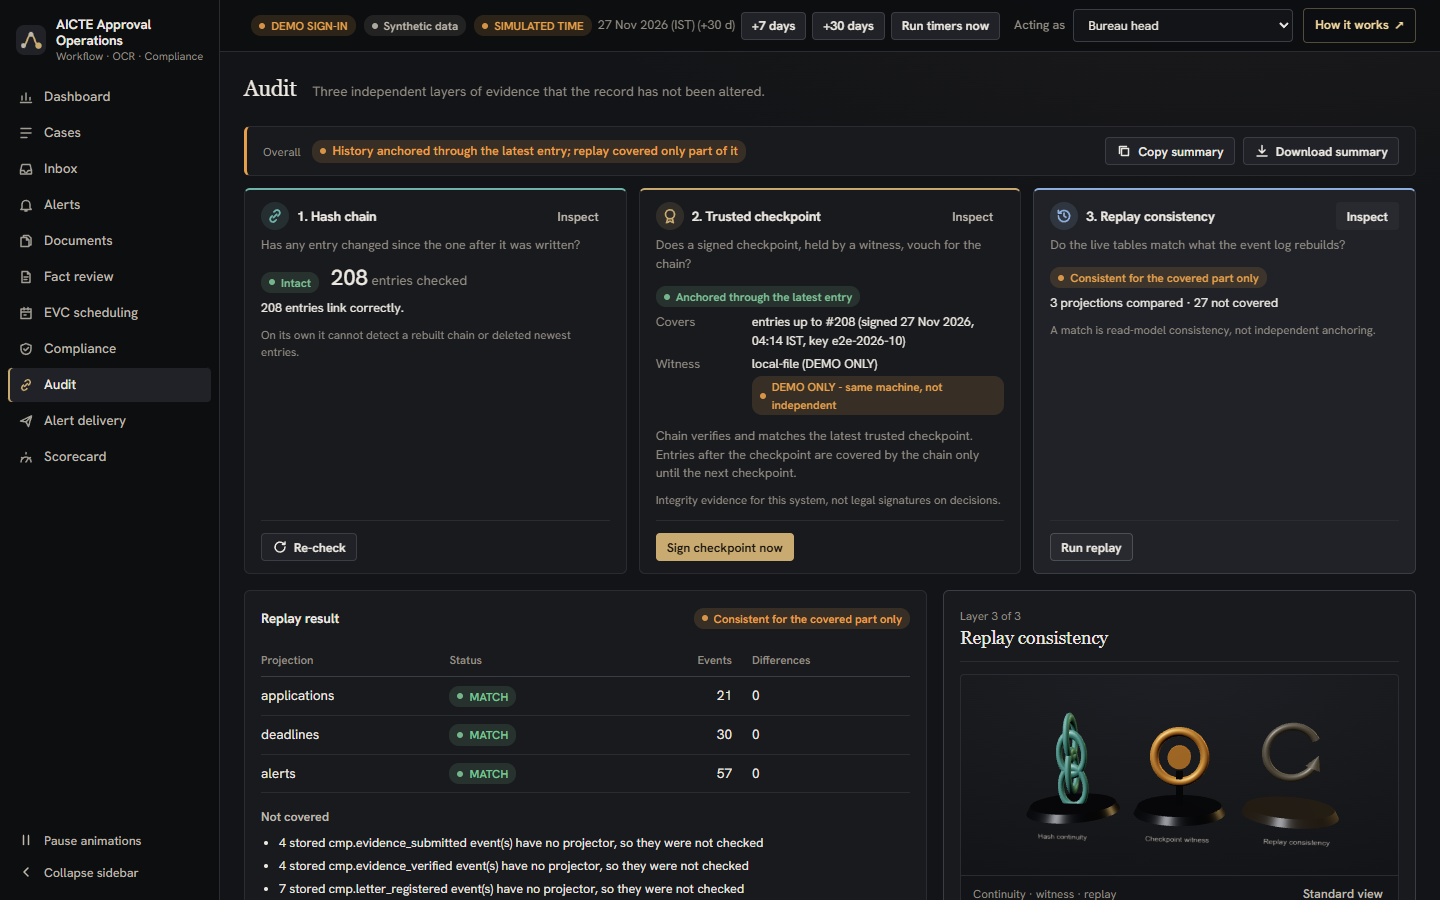
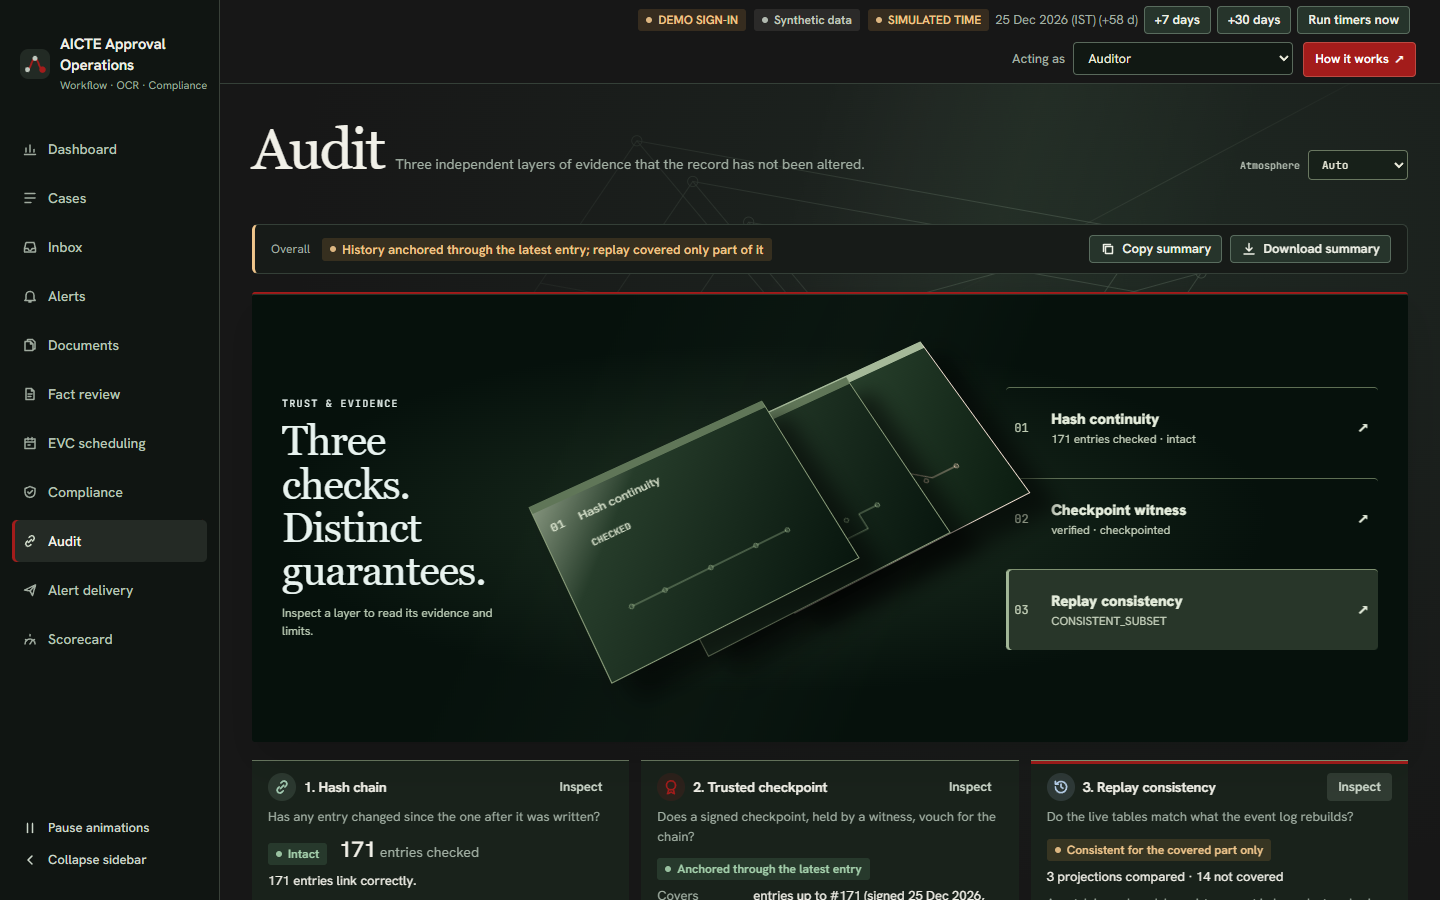
docs: refresh screenshots and design notes for the new workspace look
Replaces the README screenshots with the current screens (same synthetic
data) and adds the dashboard and the showcase. DESIGN.md now lists the
charcoal, forest and crimson palette with the values in use and describes
the atmosphere layer and the screen instruments; MOTION.md covers the
Atmosphere setting next to the reduced-motion rules.

diff --git a/frontend/DESIGN.md b/frontend/DESIGN.md
@@ -10,25 +10,43 @@ cover a form or a table.
 
 ## Colour roles
 
-Colour encodes hierarchy and meaning. Tokens live in `src/styles.css` (`:root`).
+Colour encodes hierarchy and meaning. The palette is built from three anchors: charcoal `#171717`, forest
+`#06110C` and crimson `#A31C1B`. Token names live in `src/styles.css` (`:root`); the values in use are set by the
+product layer in `src/product/` (`product.css`, then `luxury.css`, `atelier.css` and `atmosphere.css`, loaded in that
+order from `main.jsx`). The token names are older than the palette, so `--brass` now holds crimson and `--teal`
+holds sage.
 
-| Role | Tokens | Used for |
-|---|---|---|
-| Ink / graphite | `--ink-0` … `--ink-4`, `--line`, `--line-strong` | Chrome (sidebar, top bar), page, panels, hover, selected rows, hairlines |
-| Ivory / stone text | `--text`, `--text-2`, `--text-3` | Primary, secondary and supporting text (`--text-3` keeps ≥ 4.5:1 on panels) |
-| Reading paper | `--paper`, `--paper-ink`, `--paper-muted` | The document reading surface only |
-| Brass (material) | `--brass`, `--brass-strong`, `--brass-soft` | Selection, focus ring, primary buttons, the witness layer |
-| Amber (attention) | `--amber`, `--amber-soft` | Current stage, next deadline, "needs you", open obligations, sample data |
-| Teal (technical relation) | `--teal`, `--teal-soft` | Hash chain continuity, recorded events, evidence links |
-| Info blue | `--info` | In-process cases, unverified evidence, the replay layer |
-| Status | `--ok`, `--warn`, `--bad` (+ `-soft`) | Recorded outcomes, always with a word |
+| Role | Tokens | Value | Used for |
+|---|---|---|---|
+| Forest / charcoal ink | `--ink-0` … `--ink-4`, `--line`, `--line-strong` | `#06110C` → `#303B32` | Chrome (sidebar, top bar), page, panels, hover, selected rows, hairlines |
+| Ivory text | `--text`, `--text-2`, `--text-3` | `#F1F0E8`, `#C0C9BF`, `#A1AFA3` | Primary, secondary and supporting text (`--text-3` keeps ≥ 4.5:1 on panels) |
+| Reading paper | `--paper`, `--paper-ink` | `#E9E8DF`, `#232A24` | The document reading surface only |
+| Crimson (selection) | `--brass`, `--brass-strong`, `--brass-soft` | `#A31C1B`, `#D44E46` | Selection, the active navigation item, primary buttons, the current stage marker |
+| Amber (attention) | `--amber`, `--warn` | `#EFC58B` | Next deadline, "needs you", open obligations, demo-assumption notices |
+| Sage (technical relation) | `--teal` | `#A3CBB2` | Hash chain continuity, recorded events, evidence links |
+| Info blue | `--info` | `#B3CBE4` | In-process cases, unverified evidence, the replay layer |
+| Status | `--ok`, `--warn`, `--bad` | `#A5D1AD`, `#EFC58B`, `#FFAAA0` | Recorded outcomes, always with a word |
 
 Rules: a status is never shown by colour alone (badges carry a dot and a word); green appears only for a recorded
-positive outcome; amber is not used for decoration; brass marks what the user selected, never a result.
+positive outcome; amber is not used for decoration; crimson marks what the user selected or should press, never a
+result.
+
+## Atmosphere
+
+Each screen sits on a quiet forest field with one soft light and a faint line drawing taken from the screen's
+subject (`src/product/Atmosphere.jsx`, `atmosphere.css`). The layer is `aria-hidden`, has `pointer-events: none`
+and never covers a control. The Atmosphere select beside the page title offers Auto, Full, Reduced and Static; the
+choice is kept in `localStorage` (`awoc.atmosphere`). Under `prefers-reduced-motion` every mode is still.
+
+A few screens add an illustrative instrument above their working surface: the operations pulse on the dashboard,
+the route sculpture on a case, the trust trace on Audit and the review protocol on Fact review
+(`src/product/Instruments.jsx`, `DossierSculpture.jsx`). They read the same API data as the screen, never run an
+action, and never show a stage as done unless the server says so.
 
 ## Type
 
-- Georgia — page titles (22px), the open record's title in an inspector, the case title. Nowhere else.
+- Georgia — page titles (set large, beside the one-sentence description), section headlines in the instruments,
+  the open record's title in an inspector, the case title. Nowhere else.
 - Hanken Grotesk (bundled) — interface text: 13.5px body, 12.5px secondary, 11.5px labels. Labels are sentence
   case; there are no tracked uppercase eyebrows.
 - JetBrains Mono (bundled) — internal references, hashes, file names, sequence numbers, times on the EVC grid.
@@ -38,7 +56,7 @@ positive outcome; amber is not used for decoration; brass marks what the user se
 ## Space, shape, states
 
 Spacing 4/8/12/16/24/32/48 (`--s1`…`--s7`); panel radius 6px, controls 4px; sidebar 220px (60px rail); top bar
-52px. Focus is a 2px brass ring offset from the surface. Buttons: primary (brass), secondary (raised graphite),
+52px. Focus is a 2px light sage ring offset from the surface. Buttons: primary (crimson), secondary (raised forest),
 ghost. Touch targets are at least 36px on phones (44px for navigation).
 
 Loading keeps the shape of what is coming (skeleton bars with a fixed minimum height, so content does not jump).

diff --git a/README.md b/README.md
@@ -33,14 +33,18 @@ written to a hash-chained, signed and replayable audit ledger.
 
 | | |
 |---|---|
+| ![Bureau head dashboard with the operations pulse and the alert queue](docs/screenshots/dashboard.png) | ![Public showcase opening on the application dossier](docs/screenshots/showcase.png) |
+| Dashboard: stage counts rebuilt from the audit event log, a case route to inspect, alerts that need the role | Showcase at `#showcase`: a guided walk-through of the product that ends in the workspace |
 | ![Scrutiny committee recording a deficiency on a case](docs/screenshots/scrutiny-deficiency.png) | ![Regional officer planning expert visits with the CP-SAT optimiser](docs/screenshots/evc-scheduling.png) |
-| Case under scrutiny: deficiency round, committee workspace, demo-assumption labels | EVC scheduling: visit requests, CP-SAT or earliest-deadline-first planning, simulated panel selection |
+| Case under scrutiny: the prescribed route, deficiency round, committee workspace, demo-assumption labels | EVC scheduling: visit requests, CP-SAT or earliest-deadline-first planning, simulated panel selection |
 | ![Fact review with blind entry before the OCR reading is revealed](docs/screenshots/fact-review-blind-entry.png) | ![Deadline alerts with escalation levels and acknowledgement](docs/screenshots/deadline-alerts.png) |
 | Fact review: the officer types the value first; the OCR reading is revealed only after that | Alerts: escalation ladder per deadline, acknowledgement by the addressed role |
 | ![Audit view: hash chain, signed checkpoint and replay](docs/screenshots/audit.png) | ![Scorecard listing how each check was measured](docs/screenshots/scorecard.png) |
 | Audit: hash chain, signed checkpoint held by a witness, replay of read models | Scorecard: each check says how it was measured and what it found |
 
-All screenshots come from the end-to-end run described under [Tests](#tests) and show synthetic data.
+All screenshots come from the end-to-end run described under [Tests](#tests) and show synthetic data. The
+background atmosphere can be set to Auto, Full, Reduced or Static from the control at the top of each screen, and
+stays still when the system asks for reduced motion.
 
 ## Problem statement coverage
 
@@ -163,7 +167,8 @@ ClamAV downloads its signatures on first start, which takes a few minutes; until
 **Demo sign-in (default).** The top bar has an "Acting as" switcher with these synthetic roles: Institution
 (Sunrise), Institution (Northfield), Scrutiny committee, Regional officer Southern, Regional officer Northern, Bureau
 officer, Bureau head and Auditor. The same bar shows `DEMO SIGN-IN`, `Synthetic data` and `SIMULATED TIME`, with
-`+7 days`, `+30 days` and `Run timers now` for time travel.
+`+7 days`, `+30 days` and `Run timers now` for time travel. The Atmosphere control beside each page title and
+"Pause animations" in the sidebar turn the background effects and transitions down or off.
 
 **Real sign-in (optional).** Keycloak, Cerbos and Mailpit (captured demo email at http://localhost:8025), with the
 eight matching demo accounts listed in [infra/keycloak/README.md](infra/keycloak/README.md):

diff --git a/frontend/MOTION.md b/frontend/MOTION.md
@@ -13,6 +13,7 @@ Motion confirms what just happened; it never decorates or delays. All of it is C
 | Bars | Horizontal bars grow from zero once when rendered | 360ms |
 | Navigation indicator | Slides to the selected item | 180ms |
 | Loading | Skeleton bars pulse slowly; their size matches the content that replaces them | — |
+| Atmosphere | The background light drifts slowly behind the screen; it restarts when the route changes | ambient |
 
 There is no departure delay, no route-level zoom or iris, no blocking overlay, no click-zoom and no scroll-driven
 choreography. Scrolling never selects a record or changes a figure.
@@ -21,7 +22,9 @@ choreography. Scrolling never selects a record or changes a figure.
 
 `prefers-reduced-motion` and the in-app "Pause animations" switch (stored in `awoc.motion`) both apply: every
 animation and transition collapses to 1ms and the `motion` class is removed from `<html>`, so nothing is hidden
-waiting for an entrance.
+waiting for an entrance. The Atmosphere select (Auto, Full, Reduced, Static; stored in `awoc.atmosphere`) controls
+the background separately: Reduced and Static stop its drift, and under `prefers-reduced-motion` it is still in
+every mode.
 
 ## The audit figure
 
